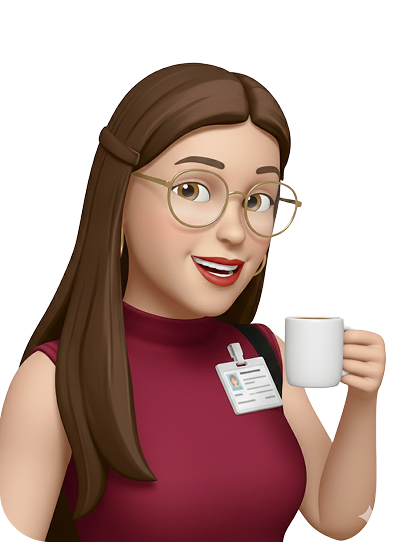
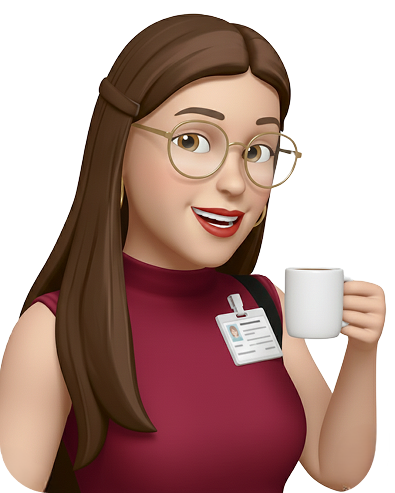
fix: fixed image

diff --git a/index.html b/index.html
@@ -39,8 +39,9 @@
             <section class="card-menu">
                 <img src="assets/images/brilho-emoji.png" alt="Ícone" class="card-icon">
                 <span class="rotated-text">Bem-vindo (a) ao meu portfólio</span></span>
-                <p>Sou Maria Luiza (Malu), graduanda em Ciência da Computação e IA Aplicada (PUCPR). Atuo como Vice-presidente da LAICT e Criadora de Conteúdo Tech.</p>            </section>
-            <img src="assets/images/malu-cafe.png" alt="Avatar de Maria Luiza tomando café">
+                <p>Sou Maria Luiza (Malu), graduanda em Ciência da Computação e IA Aplicada (PUCPR). Atuo como Presidente da LAICT e Criadora de Conteúdo Tech.</p>
+            </section>
+            <img src="assets/images/malu-cafe.png"  alt="Avatar de Maria Luiza tomando café">
             <span class="rotated-title" id="projetos">Projetos</span>
             <span class="rotated-title2" id="skills">Skills</span>
             <span class="rotated-title" id="contato">Contato</span>
